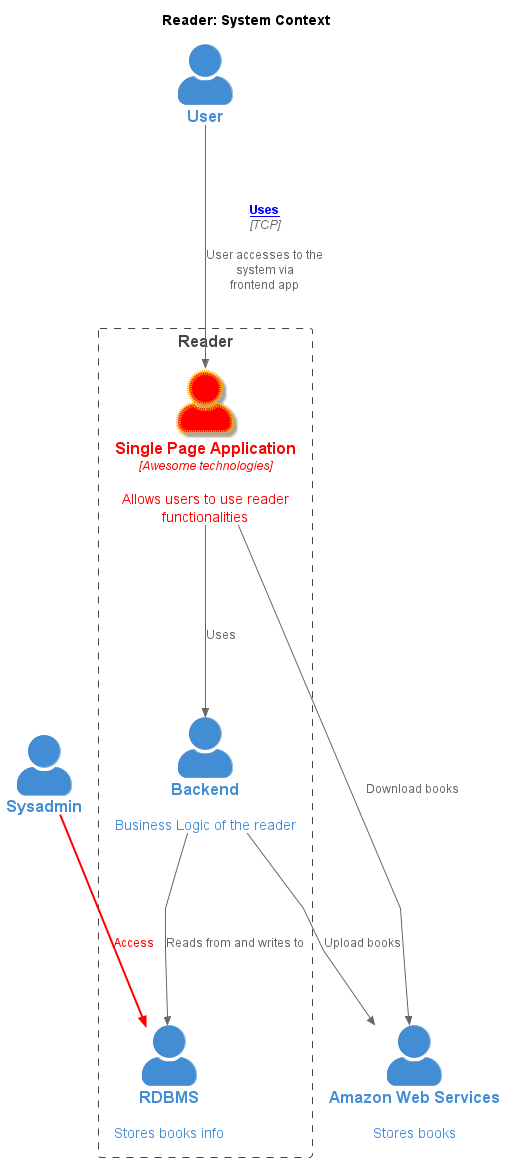
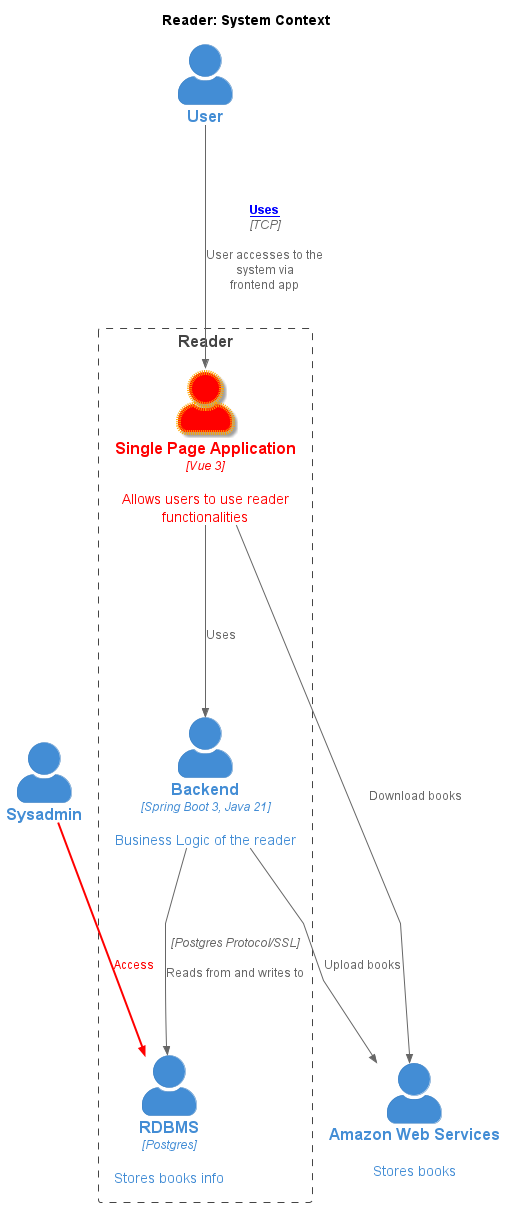
add technologies to elements and relations

diff --git a/src/main/java/it/vitalegi/archi/exporter/c4/plantuml/writer/C4PlantumlWriter.java b/src/main/java/it/vitalegi/archi/exporter/c4/plantuml/writer/C4PlantumlWriter.java
@@ -65,11 +65,11 @@ public class C4PlantumlWriter extends PlantumlWriter {
     }
 
     public void container(Element element) {
-        container(getAlias(element), element.getName(), null, element.getDescription(), "", formatTags(element), "", "");
+        container(getAlias(element), element.getName(), formatTechnologies(element), element.getDescription(), "", formatTags(element), "", "");
     }
 
     public void container(C4DiagramElement element) {
-        container(getAlias(element), element.getName(), null, element.getDescription(), "", formatTags(element), "", "");
+        container(getAlias(element), element.getName(), formatTechnologies(element), element.getDescription(), "", formatTags(element), "", "");
     }
 
     protected void container(String alias, String label, String technology, String description, String sprite, String tags, String link, String shape) {
@@ -105,11 +105,11 @@ public class C4PlantumlWriter extends PlantumlWriter {
     }
 
     public void addRelation(String command, DirectRelation relation) {
-        addRelation(command, getAlias(relation.getFrom()), getAlias(relation.getTo()), relation.getLabel(), relation.getTechnologies(), relation.getDescription(), relation.getSprite(), formatTags(relation), relation.getLink());
+        addRelation(command, getAlias(relation.getFrom()), getAlias(relation.getTo()), relation.getLabel(), formatTechnologies(relation), relation.getDescription(), relation.getSprite(), formatTags(relation), relation.getLink());
     }
 
     public void addRelation(C4DiagramRelation relation) {
-        addRelation("Rel", relation.getFromAlias(), relation.getToAlias(), relation.getLabel(), relation.getTechnology(), relation.getDescription(), relation.getSprite(), formatTags(relation), relation.getLink());
+        addRelation("Rel", relation.getFromAlias(), relation.getToAlias(), relation.getLabel(), formatTechnologies(relation), relation.getDescription(), relation.getSprite(), formatTags(relation), relation.getLink());
     }
 
     protected void addRelation(String command, String aliasFrom, String aliasTo, String label, String technology, String description, String sprite, String tags, String link) {
@@ -165,11 +165,34 @@ public class C4PlantumlWriter extends PlantumlWriter {
         return formatTags(relation.getTags());
     }
 
-
     protected String formatTags(List<String> tags) {
         if (tags == null) {
             return null;
         }
         return String.join("&", tags);
+    }
+
+    protected String formatTechnologies(Element element) {
+        return formatTechnologies(element.getTechnologies());
+    }
+
+    protected String formatTechnologies(C4DiagramElement element) {
+        return formatTechnologies(element.getTechnologies());
+    }
+
+    protected String formatTechnologies(DirectRelation relation) {
+        return formatTechnologies(relation.getTechnologies());
+    }
+
+    protected String formatTechnologies(C4DiagramRelation relation) {
+        return formatTechnologies(relation.getTechnologies());
+    }
+
+
+    protected String formatTechnologies(List<String> technologies) {
+        if (technologies == null) {
+            return null;
+        }
+        return String.join(", ", technologies);
     }
 }

diff --git a/src/test/java/it/vitalegi/archi/model/builder/WorkspaceDirectorTests.java b/src/test/java/it/vitalegi/archi/model/builder/WorkspaceDirectorTests.java
@@ -11,6 +11,7 @@ import it.vitalegi.archi.util.WorkspaceUtil;
 import it.vitalegi.archi.workspaceloader.model.DeploymentDiagramRaw;
 import it.vitalegi.archi.workspaceloader.model.ElementRaw;
 import it.vitalegi.archi.workspaceloader.model.LandscapeDiagramRaw;
+import it.vitalegi.archi.workspaceloader.model.RelationRaw;
 import it.vitalegi.archi.workspaceloader.model.SystemContextDiagramRaw;
 import org.junit.jupiter.api.Assertions;
 import org.junit.jupiter.api.BeforeEach;
@@ -23,6 +24,7 @@ import org.junit.jupiter.params.provider.Arguments;
 import org.junit.jupiter.params.provider.MethodSource;
 import org.mockito.junit.jupiter.MockitoExtension;
 
+import java.util.Arrays;
 import java.util.NoSuchElementException;
 import java.util.stream.Stream;
 
@@ -91,6 +93,33 @@ public class WorkspaceDirectorTests {
 
         var e = Assertions.assertThrows(CycleNotAllowedException.class, () -> load(config));
         assertEquals("Unresolved dependencies. Known: C, D, null. Unresolved: A: B; B: A; E: A; null: A", e.getMessage());
+    }
+
+
+    @Test
+    void when_load_given_elementWithTechnologies_then_technologiesArePreserved() {
+        var config = builder() //
+                .element(ElementRaw.softwareSystem().id("A").technologies(Arrays.asList("T1", "T2"))) //
+                .build();
+
+        var ws = load(config);
+        var a = ws.getModel().getElementById("A");
+        assertEquals(Arrays.asList("T1", "T2"), a.getTechnologies());
+    }
+
+    @Test
+    void when_load_given_relationWithTechnologies_then_technologiesArePreserved() {
+        var config = builder() //
+                .element(ElementRaw.softwareSystem().id("A")) //
+                .element(ElementRaw.softwareSystem().id("B")) //
+                .relation(RelationRaw.builder().from("A").to("B").technologies(Arrays.asList("T1", "T2"))) //
+                .build();
+
+        var ws = load(config);
+        var a = ws.getModel().getElementById("A");
+        var relations = ws.getModel().getRelationManager().getDirect().getAll();
+        assertEquals(1, relations.size());
+        assertEquals(Arrays.asList("T1", "T2"), relations.get(0).getTechnologies());
     }
 
     protected WorkspaceModelBuilder builder() {

diff --git a/src/main/java/it/vitalegi/archi/workspaceloader/model/RelationRaw.java b/src/main/java/it/vitalegi/archi/workspaceloader/model/RelationRaw.java
@@ -1,10 +1,13 @@
 package it.vitalegi.archi.workspaceloader.model;
 
+import lombok.Builder;
 import lombok.Data;
+import lombok.NoArgsConstructor;
 
 import java.util.List;
 import java.util.Map;
 
+@NoArgsConstructor
 @Data
 public class RelationRaw {
     String id;
@@ -14,7 +17,21 @@ public class RelationRaw {
     String label;
     String sprite;
     String link;
-    String technologies;
+    List<String> technologies;
     List<String> tags;
     Map<String, String> metadata;
+
+    @Builder
+    public RelationRaw(String id, String from, String to, String description, String label, String sprite, String link, List<String> technologies, List<String> tags, Map<String, String> metadata) {
+        this.id = id;
+        this.from = from;
+        this.to = to;
+        this.description = description;
+        this.label = label;
+        this.sprite = sprite;
+        this.link = link;
+        this.technologies = technologies;
+        this.tags = tags;
+        this.metadata = metadata;
+    }
 }

diff --git a/src/main/java/it/vitalegi/archi/model/relation/DirectRelation.java b/src/main/java/it/vitalegi/archi/model/relation/DirectRelation.java
@@ -37,7 +37,7 @@ public class DirectRelation extends Entity implements Cloneable<DirectRelation>,
     @EqualsAndHashCode.Exclude
     List<String> tags;
     @EqualsAndHashCode.Exclude
-    String technologies;
+    List<String> technologies;
     @EqualsAndHashCode.Exclude
     Map<String, String> metadata;
 
@@ -48,7 +48,7 @@ public class DirectRelation extends Entity implements Cloneable<DirectRelation>,
     }
 
     @Builder
-    public DirectRelation(Model model, Element from, Element to, String label, String description, String sprite, String link, List<String> tags, String technologies, Map<String, String> metadata) {
+    public DirectRelation(Model model, Element from, Element to, String label, String description, String sprite, String link, List<String> tags, List<String> technologies, Map<String, String> metadata) {
         super(model);
         this.from = from;
         this.to = to;

diff --git a/src/test/java/it/vitalegi/archi/util/WorkspaceModelBuilder.java b/src/test/java/it/vitalegi/archi/util/WorkspaceModelBuilder.java
@@ -33,6 +33,12 @@ public class WorkspaceModelBuilder {
         return this;
     }
 
+    public WorkspaceModelBuilder element(ElementRaw.ElementRawBuilder builder) {
+        workspace.getElements().add(builder.build());
+        return this;
+    }
+
+
     public WorkspaceModelBuilder softwareSystem(String id) {
         return softwareSystem(null, id);
     }
@@ -155,6 +161,11 @@ public class WorkspaceModelBuilder {
 
     public WorkspaceModelBuilder relation(String from, String to) {
         workspace.getRelations().add(relation(from, to, null, null, null));
+        return this;
+    }
+
+    public WorkspaceModelBuilder relation(RelationRaw.RelationRawBuilder builder) {
+        workspace.getRelations().add(builder.build());
         return this;
     }
 

diff --git a/src/main/java/it/vitalegi/archi/workspaceloader/model/ElementRaw.java b/src/main/java/it/vitalegi/archi/workspaceloader/model/ElementRaw.java
@@ -20,8 +20,13 @@ public class ElementRaw {
     String name;
     String description;
     List<String> tags;
+    List<String> technologies;
     Map<String, String> metadata;
     String containerId;
     String softwareSystemId;
     List<ElementRaw> elements;
+
+    public static ElementRaw.ElementRawBuilder softwareSystem() {
+        return builder().type(ElementType.SOFTWARE_SYSTEM);
+    }
 }

diff --git a/src/main/java/it/vitalegi/archi/exporter/c4/plantuml/builder/C4DiagramRelationFactoryVisitor.java b/src/main/java/it/vitalegi/archi/exporter/c4/plantuml/builder/C4DiagramRelationFactoryVisitor.java
@@ -39,7 +39,7 @@ public class C4DiagramRelationFactoryVisitor implements RelationVisitor<C4Diagra
         target.setLink(relation.getLink());
         target.setLabel(relation.getLabel());
         target.setSprite(relation.getSprite());
-        target.setTechnology(relation.getTechnologies());
+        target.setTechnologies(relation.getTechnologies());
     }
 
 }

diff --git a/src/main/java/it/vitalegi/archi/exporter/c4/plantuml/builder/DiagramElementFactoryVisitor.java b/src/main/java/it/vitalegi/archi/exporter/c4/plantuml/builder/DiagramElementFactoryVisitor.java
@@ -90,6 +90,7 @@ public class DiagramElementFactoryVisitor implements ElementVisitor<C4DiagramEle
         out.setName(element.getName());
         out.setDescription(element.getDescription());
         out.setTags(element.getTags());
+        out.setTechnologies(element.getTechnologies());
         out.setProperties(properties(element));
         return out;
     }

diff --git a/src/main/java/it/vitalegi/archi/model/builder/ElementFactory.java b/src/main/java/it/vitalegi/archi/model/builder/ElementFactory.java
@@ -112,6 +112,7 @@ public class ElementFactory {
         out.setName(in.getName());
         out.setDescription(in.getDescription());
         out.setTags(in.getTags());
+        out.setTechnologies(in.getTechnologies());
         out.setMetadata(in.getMetadata());
         out.setUniqueId(WorkspaceUtil.createUniqueId(out));
     }

diff --git a/src/main/java/it/vitalegi/archi/model/diagramelement/C4DiagramRelation.java b/src/main/java/it/vitalegi/archi/model/diagramelement/C4DiagramRelation.java
@@ -13,9 +13,9 @@ public class C4DiagramRelation {
     String fromAlias;
     String toAlias;
     String label;
-    String technology;
     String description;
     String sprite;
+    List<String> technologies;
     List<String> tags;
     String link;
 }

diff --git a/src/main/java/it/vitalegi/archi/model/element/Element.java b/src/main/java/it/vitalegi/archi/model/element/Element.java
@@ -24,6 +24,7 @@ public abstract class Element extends Entity {
     String name;
     String description;
     List<String> tags;
+    List<String> technologies;
     Map<String, String> metadata;
 
     public Element(Model model) {

diff --git a/src/main/java/it/vitalegi/archi/model/diagramelement/C4DiagramElement.java b/src/main/java/it/vitalegi/archi/model/diagramelement/C4DiagramElement.java
@@ -13,6 +13,7 @@ public class C4DiagramElement {
     String name;
     String description;
     List<String> tags;
+    List<String> technologies;
     List<C4DiagramElementProperty> properties;
 
     public C4DiagramElement() {
